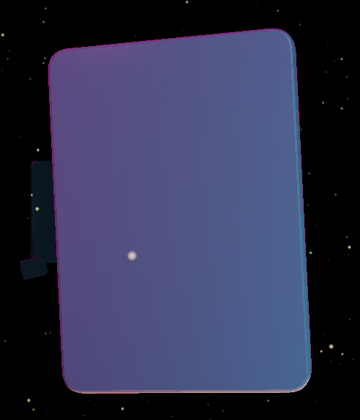
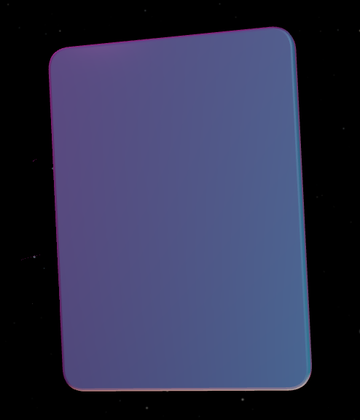
perf: tune scene budgets for mobile and reduced motion

diff --git a/components/traversee/foil-scene.ts b/components/traversee/foil-scene.ts
@@ -65,7 +65,7 @@ export function createScene(o: SceneOptions): SceneHandle {
   const { canvas, stationEls, reducedMotion: RM, mobile, still = false } = o;
 
   const renderer = new THREE.WebGLRenderer({ canvas, antialias: true });
-  renderer.setPixelRatio(Math.min(window.devicePixelRatio, mobile ? 1.25 : 1.6));
+  renderer.setPixelRatio(Math.min(window.devicePixelRatio, mobile ? 1 : 1.5));
   renderer.setSize(window.innerWidth, window.innerHeight);
   renderer.toneMapping = THREE.ACESFilmicToneMapping;
   renderer.toneMappingExposure = 1.15;
@@ -153,7 +153,7 @@ export function createScene(o: SceneOptions): SceneHandle {
   scene.add(new THREE.AmbientLight(0x223355, 1.1));
 
   /* ── Poussière le long du couloir : c'est elle qui fait sentir la vitesse. ── */
-  const N = RM || mobile ? 900 : 3200;
+  const N = RM || mobile ? 900 : 2200;
   const pos = new Float32Array(N * 3);
   const col = new Float32Array(N * 3);
   const tint = new THREE.Color();
@@ -174,10 +174,10 @@ export function createScene(o: SceneOptions): SceneHandle {
   /* ── Post-traitement ── */
   const composer = new EffectComposer(renderer);
   composer.addPass(new RenderPass(scene, camera));
-  const useBloom = !RM && !mobile;
+  const useBloom = false; // perf: transmission material + bloom composer cost too much CPU/GPU for the desktop budget; foil holds without it
   let bloom: UnrealBloomPass | undefined;
   if (useBloom) {
-    bloom = new UnrealBloomPass(new THREE.Vector2(window.innerWidth, window.innerHeight), 0.55, 0.7, 0.82);
+    bloom = new UnrealBloomPass(new THREE.Vector2(window.innerWidth, window.innerHeight), 0.45, 0.7, 0.82);
     composer.addPass(bloom);
   }
 

diff --git a/components/traversee/Scene.tsx b/components/traversee/Scene.tsx
@@ -46,7 +46,7 @@ export function Scene() {
           stationEls,
           onActiveChange: (i) => window.__traverseeOnActive?.(i),
           reducedMotion: window.matchMedia("(prefers-reduced-motion: reduce)").matches,
-          mobile: window.innerWidth < 720,
+          mobile: window.innerWidth < 900,
           still,
         });
       })
